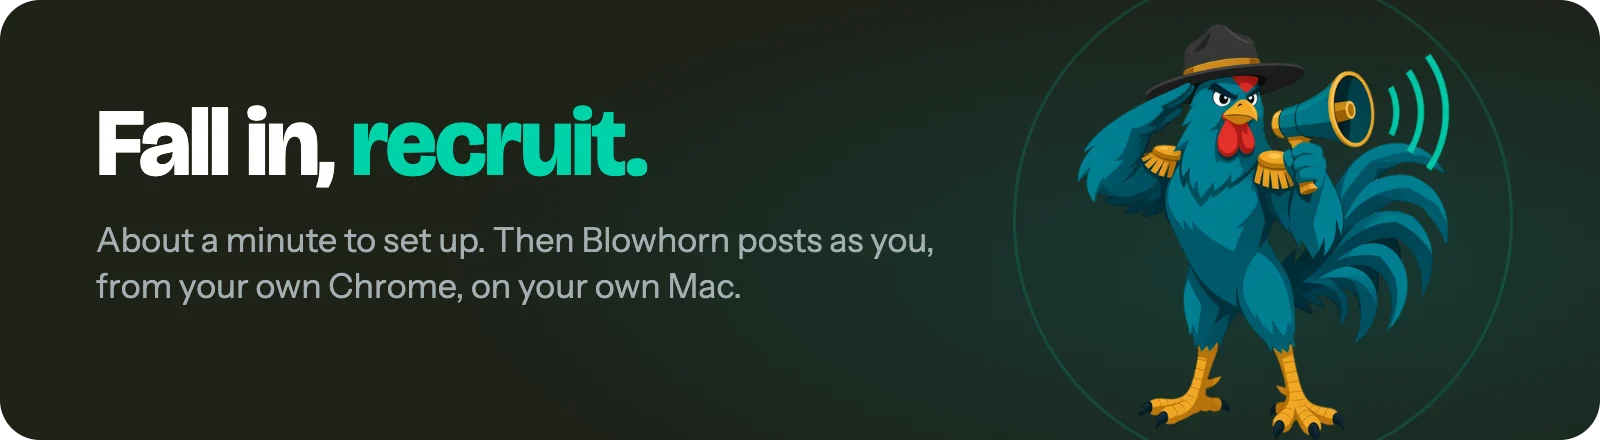
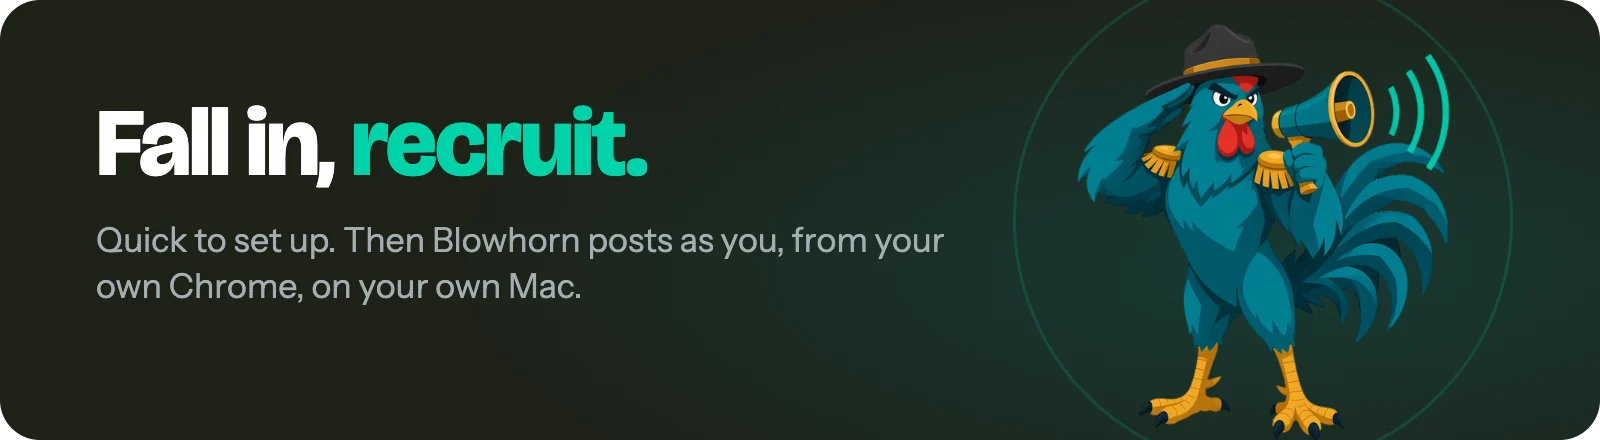
profile: drop changing numbers, add teams, agencies and an activities map
Rewrite every line so it stays true as platforms, actions and features
grow: no prices, counts, versions or setup times, and the platform list
now reads as a growing set.

Add a "Built for teams, agencies and their clients" section with three
blocks (distributed teams acting from their own computers, white-labeled
interfaces, reports and emails for agencies, and a workspace per client),
each with one locked cast member: the G.I., the General and the Chief
Drill Instructor. Add a light and dark "A taste of the menu" infographic
sampling supported actions per platform around Keyboard Warrior.

The troops strip is removed because its characters now carry their own
sections, and the footer link to blowhorn.ai/major replaces it.

Changed region(s): [[0.0625, 0.5023, 0.5938, 0.5909], [0.0625, 0.6205, 0.4688, 0.6795]]

diff --git a/profile/README.md b/profile/README.md
@@ -9,14 +9,14 @@
 
 <h3>Write it once. Every profile you run says it, as you.</h3>
 
-<p>Blowhorn is a private Mac app for marketers, founders, devrel and small teams.<br>
+<p>Blowhorn is a private Mac app for marketers, founders, devrel, agencies and remote teams.<br>
 It posts, amplifies and runs LinkedIn outreach across the social profiles you control,<br>
 typing and clicking in your own Chrome, on your own computer.</p>
 
 <a href="https://blowhorn.ai/download"><picture><source media="(prefers-color-scheme: dark)" srcset="assets/button-download-dark.png"><img src="assets/button-download-light.png" height="49" alt="Download for Mac"></picture></a>&nbsp;&nbsp;
 <a href="https://blowhorn.ai"><picture><source media="(prefers-color-scheme: dark)" srcset="assets/button-site-dark.png"><img src="assets/button-site-light.png" height="49" alt="Visit blowhorn.ai"></picture></a>
 
-<sub>Works with <b>LinkedIn</b> · <b>X</b> · <b>Reddit</b> · <b>Hacker News</b> · <b>Bluesky</b> · <b>Slack</b> · <b>GitHub</b> reactions &nbsp;|&nbsp; macOS 13 or later &nbsp;|&nbsp; about a minute to set up</sub>
+<sub>Already works with <b>LinkedIn</b> · <b>X</b> · <b>Reddit</b> · <b>Hacker News</b> · <b>Bluesky</b> · <b>Slack</b> · <b>GitHub</b>, with more platforms on the way</sub>
 
 </div>
 
@@ -29,9 +29,9 @@ typing and clicking in your own Chrome, on your own computer.</p>
 <td width="42%"><img src="assets/why-tabs.webp" width="100%" alt="Trench Trooper, a muddy pig in a helmet, holding a rifle with a long tab bayonet"></td>
 <td>
 
-### Seven tabs. One post. Somebody call a medic.
+### Tab after tab after tab. Somebody call a medic.
 
-You paste the same announcement into LinkedIn, then X, then Reddit, then your second LinkedIn, then your company page. Blowhorn gives you **one queue for every profile you run**. Write it once, pick where it goes, and Blowhorn posts it as you, right on time. Your browser goes back to being a browser.
+You paste the same announcement into LinkedIn, then X, then Reddit, then your second LinkedIn, then your company page, then you lose track. Blowhorn gives you **one queue for every profile you run**. Write it once, pick where it goes, and Blowhorn posts it as you, right on time. Your browser goes back to being a browser.
 
 <sub><b>Trench Trooper</b>, dug in against tab chaos since day one.</sub>
 
@@ -40,14 +40,14 @@ You paste the same announcement into LinkedIn, then X, then Reddit, then your se
 <tr>
 <td>
 
-### Your launch post deserves more than nine likes.
+### Your launch post deserves more than crickets.
 
 A post lives or dies in its first hour. Schedule one message and **every profile you add amplifies it at the moment you pick**: reposts, quotes and comments from real accounts, each one posting as itself. Teammates add their own profiles once and join every wave after that. No more "hey, can everyone like this?" in Slack.
 
-<sub><b>Recruit Chick</b>. Small. Loud. Armed with likes.</sub>
+<sub><b>Recruit Chick</b>. Small. Loud. First to fire.</sub>
 
 </td>
-<td width="42%"><img src="assets/why-first-hour.webp" width="100%" alt="Recruit Chick, a yellow chick in a green helmet, firing a cannon of likes, reposts and comments"></td>
+<td width="42%"><img src="assets/why-first-hour.webp" width="100%" alt="Recruit Chick, a yellow chick in a green helmet, firing a cannon of hearts, reposts and comments"></td>
 </tr>
 <tr>
 <td width="42%"><img src="assets/why-logins.webp" width="100%" alt="Sleeper Cell, a black-faced sheep in a watch cap, crouched behind a padlock shield in front of a glowing keyhole door"></td>
@@ -64,9 +64,9 @@ Most outreach tools log in as you from their own servers, with your password, yo
 <tr>
 <td>
 
-### All you can eat, on an app you control.
+### No meter running. Your app, your computers.
 
-No seat math and no per-post meter. Install Blowhorn on **every computer you own**: they share one queue, they're coordinated so the same post isn't sent from two of them, and whichever computer is awake picks up the next job. Run as many profiles as you like.
+Blowhorn never charges per post, so you don't ration reposts or count credits. Install it on **your computers** and they work as one: they share one queue, they're coordinated so the same post isn't sent from two of them, and whichever one is awake picks up the next job.
 
 <sub><b>Platoon Private</b>. Packs the posts. Brings the backup.</sub>
 
@@ -77,17 +77,57 @@ No seat math and no per-post meter. Install Blowhorn on **every computer you own
 
 <br>
 
-## Meet the troops
+## A taste of the menu
 
-Major Blowhorn leads, and only Major carries the bullhorn. His troops handle the rest:
+Posting is just the opening act. Here is a sampling of what Blowhorn already does across your profiles, and the list keeps growing:
 
 <p align="center">
-  <img src="assets/troops.webp" width="100%" alt="Left to right: Keyboard Warrior, a gold rooster with a keyboard shield; Mouse Marine, a mallard on a mouse tank with a cursor spear; the Chief Drill Instructor, a turkey holding the weekly schedule; and the General, an old billy goat with a cane and a bugle at his ear">
+  <picture>
+    <source media="(prefers-color-scheme: dark)" srcset="assets/activities-dark.webp">
+    <img src="assets/activities-light.webp" width="100%" alt="A sampling of Blowhorn actions, with Keyboard Warrior at the center. LinkedIn: posts, comments, reposts, connection requests, accepting invitations, Page invites and analytics. X: posts and threads, replies, quotes and follows. Reddit: subreddit posts and comments. Bluesky: posts, replies, reposts and follows. Hacker News: submissions and comments. Slack: channel messages, thread replies and direct messages. GitHub: follows and issue reactions. Everywhere: schedule ahead, amplification waves, dry run first, pause anything, many profiles at once, and more on the way.">
+  </picture>
 </p>
 
-**Keyboard Warrior** writes the post once and carries it everywhere your people are. **Mouse Marine** clicks the real buttons in your own Chrome, and salutes and hands you any CAPTCHA. The **Chief Drill Instructor** lines up your week and blows the whistle when each post is due. And **the General** reads the results: real likes, replies and follows. He is hard of hearing, so the bugle stays at his ear.
+<br>
 
-[Meet Major and the whole army &rarr;](https://blowhorn.ai/major/)
+## Built for teams, agencies and their clients
+
+<table>
+<tr>
+<td width="33%" valign="top">
+<img src="assets/team-own-keys.webp" width="100%" alt="The G.I., a grumpy donkey in a helmet carrying a safe and padlocked saddlebags hung with keys">
+
+### Coordinate centrally. Act from your own computer.
+
+Remote team? Everyone shares one plan and one queue, and each teammate posts from **their own computer**, signed in as themselves. Their sign-ins and profiles stay in their own hands.
+
+<sub><b>The G.I.</b> Carries your secrets. Tells no one.</sub>
+
+</td>
+<td width="33%" valign="top">
+<img src="assets/team-agency.webp" width="100%" alt="The General, an old billy goat in a naval coat, studying a campaign map with a bugle held to his ear">
+
+### Your agency's brand, not ours.
+
+Big agency? Put **your logo and colors** on the interfaces, reports and emails your clients see. They see your agency, never Blowhorn.
+
+<sub><b>The General</b>. Grouchy. Reads every report anyway.</sub>
+
+</td>
+<td width="33%" valign="top">
+<img src="assets/team-workspaces.webp" width="100%" alt="The Chief Drill Instructor, a stocky turkey in a campaign hat, pointing at a schedule on his clipboard beside a neat stack of panels">
+
+### A workspace for every client.
+
+Keep each client in **its own workspace**, with its own profiles and schedules. Nothing crosses wires, and the right people work together on the right account.
+
+<sub><b>Chief Drill Instructor</b>. Furious about mess.</sub>
+
+</td>
+</tr>
+</table>
+
+<sub>Team invites are coming soon. Today, teammates install Blowhorn, sign in to your account and add their own profiles.</sub>
 
 <br>
 
@@ -108,7 +148,7 @@ Major Blowhorn leads, and only Major carries the bullhorn. His troops handle the
 <a href="https://blowhorn.ai/download">
   <picture>
     <source media="(prefers-color-scheme: dark)" srcset="assets/cta-dark.webp">
-    <img src="assets/cta-light.webp" width="100%" alt="Fall in, recruit. About a minute to set up. Then Blowhorn posts as you, from your own Chrome, on your own Mac. Major Blowhorn salutes.">
+    <img src="assets/cta-light.webp" width="100%" alt="Fall in, recruit. Quick to set up. Then Blowhorn posts as you, from your own Chrome, on your own Mac. Major Blowhorn salutes.">
   </picture>
 </a>
 
@@ -117,10 +157,10 @@ Major Blowhorn leads, and only Major carries the bullhorn. His troops handle the
 <a href="https://blowhorn.ai/download"><picture><source media="(prefers-color-scheme: dark)" srcset="assets/button-download-dark.png"><img src="assets/button-download-light.png" height="49" alt="Download for Mac"></picture></a>&nbsp;&nbsp;
 <a href="https://blowhorn.ai"><picture><source media="(prefers-color-scheme: dark)" srcset="assets/button-site-dark.png"><img src="assets/button-site-light.png" height="49" alt="Visit blowhorn.ai"></picture></a>
 
-<sub><a href="https://blowhorn.ai/docs/">Docs</a> · <a href="https://blowhorn.ai/docs/reference/support/">Get help</a> · <a href="https://blowhorn.ai/legal/">Trust Center</a></sub>
+<sub><a href="https://blowhorn.ai/major/">Meet Major and the army</a> · <a href="https://blowhorn.ai/docs/">Docs</a> · <a href="https://blowhorn.ai/docs/reference/support/">Get help</a> · <a href="https://blowhorn.ai/legal/">Trust Center</a></sub>
 
 <br><br>
 
-<sub>&copy; 2026 Layer5, Inc. LinkedIn, X, Reddit, Hacker News, Slack, Bluesky and GitHub are trademarks of their respective owners. Blowhorn is not affiliated with or endorsed by any of them.</sub>
+<sub>&copy; 2026 Layer5, Inc. All product names and logos are trademarks of their respective owners. Blowhorn is not affiliated with or endorsed by any of them.</sub>
 
 </div>
